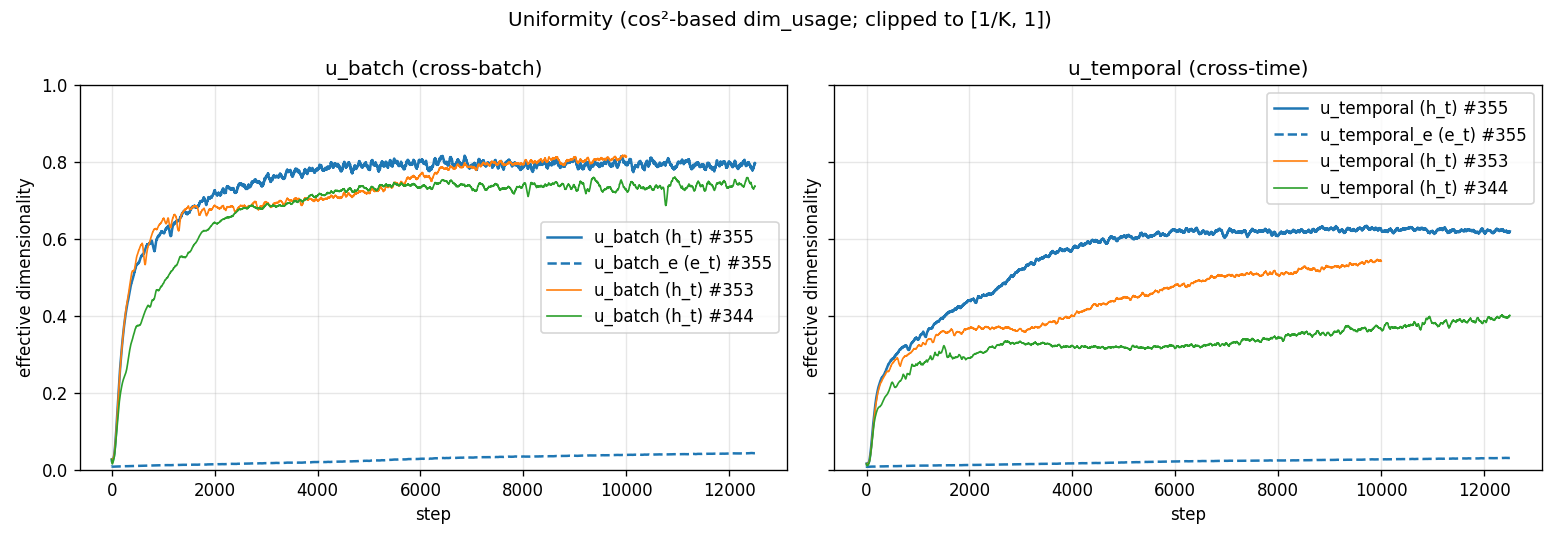
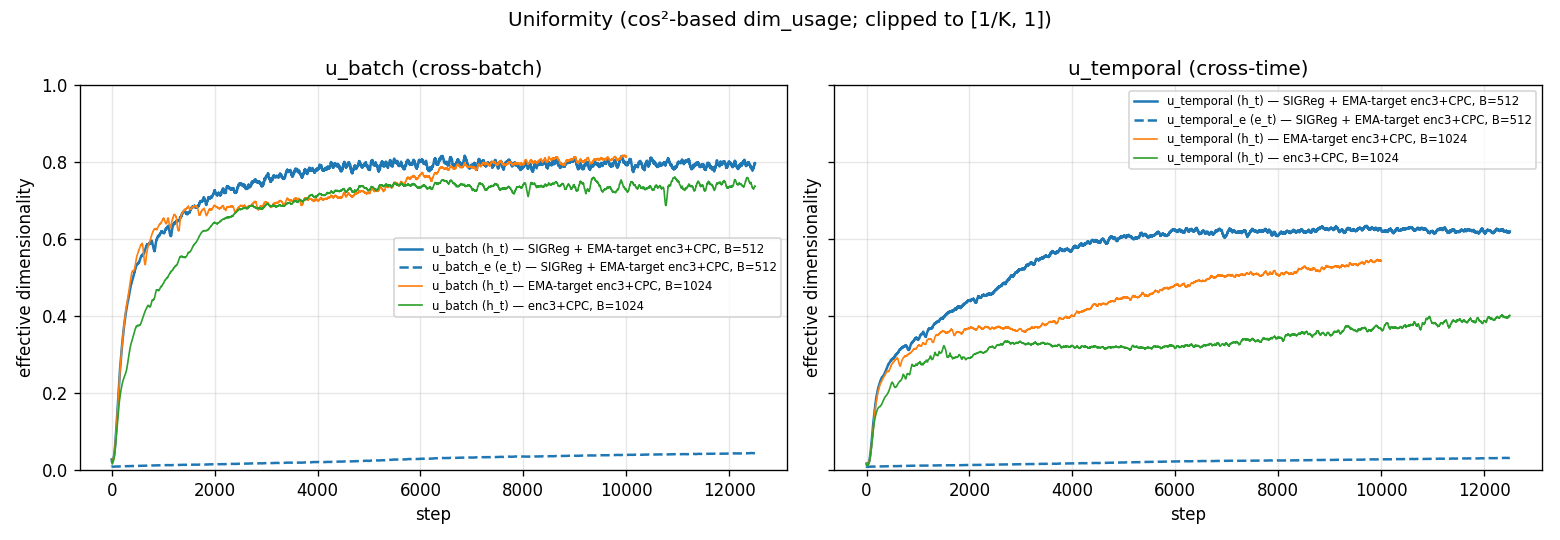
exp(#355): address #356 report review — 10 items
- Drop PR-number suffixes from plot legends (gm_rel_mase, uniformity,
  loss_curve); ARM_LABEL in build_report.py now reads e.g.
  "EMA-target enc3+CPC, B=1024" / "SIGReg + EMA-target enc3+CPC, B=512".
- Delete sigreg_terms.png orphan + drop plot_sigreg_terms() call.
- Delete results/sigreg_e_inspection.md, attribution_caveat.md,
  gm_table_aggregates_note.md (one file per experiment); unique content
  preserved in lejepa_sigreg.md (non-monotone L_SIGReg(e_t) trajectory,
  attribution / metric-scope caveats now in Result + annexes B/C).
- Result section now carries the GM-MASE / GM-MAPE_SN / GM-CRPS_SN
  scope limitation up front (not only annex) and the hard-coded
  reference-values provenance (was annex B).
- Headline rewritten descriptively: largest cross-arm delta (0.0059)
  vs intra-row spread 0.0148 quoted in the body, "within seed noise"
  language dropped.
- Dropped defensive gradient-path sentence in "What the two SIGReg
  terms did" — magnitude statement stands on its own.
- Loss-curve caption added describing the dip-then-rise shape across
  the two EMA-target arms vs the enc3+CPC reference.
- Title simplified to "LeJEPA spherical regulariser at half batch size"
  (no e_t / h_t / enc3 / CPC before Vocabulary); Vocabulary extended
  with enc3, CPC, EMA-target.
- Dropped Annex F (duplicated Sphere coverage + magnitude body tables);
  Annex E renumbered to D (per-step trajectory — unique data).

Changed region(s): [[0.7077, 0.1481, 0.9846, 0.3852], [0.2462, 0.3852, 0.5231, 0.6222]]

diff --git a/experiments/2026-06-20_lejepa_sigreg/scripts/build_report.py b/experiments/2026-06-20_lejepa_sigreg/scripts/build_report.py
@@ -23,9 +23,9 @@ EMA_GM = {
 }
 
 ARM_LABEL = {
-    "cpc_enc3":    "baseline enc3+CPC (#344)",
-    "ema_enc3":    "EMA-target enc3+CPC (#353)",
-    "sigreg_enc3": "SIGReg+EMA enc3+CPC B=512 (#355)",
+    "cpc_enc3":    "enc3+CPC, B=1024",
+    "ema_enc3":    "EMA-target enc3+CPC, B=1024",
+    "sigreg_enc3": "SIGReg + EMA-target enc3+CPC, B=512",
 }
 
 
@@ -79,58 +79,47 @@ def plot_loss_curves(sigreg_csv: Path, ema_csv: Path | None, cpc_csv: Path | Non
     fig, ax = plt.subplots(figsize=(8, 4.5))
     s = pd.read_csv(sigreg_csv)
     ax.plot(s["step"], s["loss"].rolling(50, min_periods=1).mean(),
-            label="SIGReg+EMA B=512 (#355)", color="C0", lw=1.5)
+            label=ARM_LABEL["sigreg_enc3"], color="C0", lw=1.5)
     if ema_csv and ema_csv.exists():
         e = pd.read_csv(ema_csv)
         ax.plot(e["step"], e["loss"].rolling(50, min_periods=1).mean(),
-                label="EMA-target B=1024 (#353)", color="C1", lw=1.5)
+                label=ARM_LABEL["ema_enc3"], color="C1", lw=1.5)
     if cpc_csv and cpc_csv.exists():
         c = pd.read_csv(cpc_csv)
         ax.plot(c["step"], c["loss"].rolling(50, min_periods=1).mean(),
-                label="enc3+CPC B=1024 (#344)", color="C2", lw=1.5)
+                label=ARM_LABEL["cpc_enc3"], color="C2", lw=1.5)
     ax.set_xlabel("step"); ax.set_ylabel("loss (50-step rolling mean)")
     ax.set_title("Training loss")
     ax.legend(); ax.grid(alpha=0.3)
     fig.tight_layout(); fig.savefig(out, dpi=120); plt.close(fig)
 
 
-def plot_sigreg_terms(sigreg_csv: Path, out: Path):
-    s = pd.read_csv(sigreg_csv)
-    fig, ax = plt.subplots(figsize=(8, 4.5))
-    ax.plot(s["step"], s["sigreg_e"].rolling(50, min_periods=1).mean(),
-            label=r"$L_{\rm SIGReg}(e_t)$", color="C0", lw=1.5)
-    ax.plot(s["step"], s["sigreg_h"].rolling(50, min_periods=1).mean(),
-            label=r"$L_{\rm SIGReg}(h_t)$", color="C3", lw=1.5)
-    ax.set_xlabel("step"); ax.set_ylabel("SIGReg term (50-step rolling mean)")
-    ax.set_yscale("log")
-    ax.set_title("SIGReg terms")
-    ax.legend(); ax.grid(alpha=0.3, which="both")
-    fig.tight_layout(); fig.savefig(out, dpi=120); plt.close(fig)
-
-
 def plot_uniformity(sigreg_csv: Path, ema_csv: Path | None, cpc_csv: Path | None, out: Path):
     s = pd.read_csv(sigreg_csv)
     fig, axes = plt.subplots(1, 2, figsize=(13, 4.5), sharey=True)
+    sig_lab = ARM_LABEL["sigreg_enc3"]
+    ema_lab = ARM_LABEL["ema_enc3"]
+    cpc_lab = ARM_LABEL["cpc_enc3"]
     for ax, kind in zip(axes, ("batch", "temporal")):
         ax.plot(s["step"], s[f"u_{kind}"].rolling(50, min_periods=1).mean(),
-                label=f"u_{kind} (h_t) #355", color="C0", lw=1.5)
+                label=f"u_{kind} (h_t) — {sig_lab}", color="C0", lw=1.5)
         ax.plot(s["step"], s[f"u_{kind}_e"].rolling(50, min_periods=1).mean(),
-                label=f"u_{kind}_e (e_t) #355", color="C0", lw=1.5, ls="--")
+                label=f"u_{kind}_e (e_t) — {sig_lab}", color="C0", lw=1.5, ls="--")
         if ema_csv and ema_csv.exists():
             e = pd.read_csv(ema_csv)
             if f"u_{kind}" in e.columns:
                 ax.plot(e["step"], e[f"u_{kind}"].rolling(50, min_periods=1).mean(),
-                        label=f"u_{kind} (h_t) #353", color="C1", lw=1.0)
+                        label=f"u_{kind} (h_t) — {ema_lab}", color="C1", lw=1.0)
         if cpc_csv and cpc_csv.exists():
             c = pd.read_csv(cpc_csv)
             if f"u_{kind}" in c.columns:
                 ax.plot(c["step"], c[f"u_{kind}"].rolling(50, min_periods=1).mean(),
-                        label=f"u_{kind} (h_t) #344", color="C2", lw=1.0)
+                        label=f"u_{kind} (h_t) — {cpc_lab}", color="C2", lw=1.0)
         ax.set_xlabel("step")
         ax.set_ylabel("effective dimensionality")
         ax.set_title(f"u_{kind} ({'cross-batch' if kind=='batch' else 'cross-time'})")
         ax.set_ylim(0, 1)
-        ax.legend(); ax.grid(alpha=0.3)
+        ax.legend(fontsize=7); ax.grid(alpha=0.3)
     fig.suptitle("Uniformity (cos²-based dim_usage; clipped to [1/K, 1])")
     fig.tight_layout(); fig.savefig(out, dpi=120); plt.close(fig)
 
@@ -204,7 +193,6 @@ if __name__ == "__main__":
 
     rows = write_gm_table(results, results / "gm_table.csv", args.sigreg_tag)
     plot_loss_curves(sigreg_csv, args.ema_csv, args.cpc_csv, plots / "loss_curve.png")
-    plot_sigreg_terms(sigreg_csv, plots / "sigreg_terms.png")
     plot_uniformity(sigreg_csv, args.ema_csv, args.cpc_csv, plots / "uniformity.png")
     plot_gm_bars(rows, plots / "gm_rel_mase.png")
 

diff --git a/reports/2026-06-20_lejepa_sigreg/lejepa_sigreg.md b/reports/2026-06-20_lejepa_sigreg/lejepa_sigreg.md
@@ -1,36 +1,43 @@
-# LeJEPA SIGReg on e_t + h_t at B=512 — enc3+CPC EMA-target arm
+# LeJEPA spherical regulariser at half batch size
 
 ## Question
 
-The EMA-target enc3+CPC recipe (B=1024) is bound by GPU memory at the GRU patch-embed inside the teacher path. Cutting the batch to 512 frees that budget. With the cut, does adding a spherical regulariser on the patch-embed `e_t` and on the encoder output `h_t` keep the GIFT-Eval full-97 score in the same neighbourhood as the B=1024 reference, and fill the latent sphere?
+The previous EMA-target enc3+CPC recipe at B=1024 is bound by GPU memory at the GRU patch-embed inside the teacher path. Cutting the batch to 512 frees that budget. With the cut, does adding a spherical regulariser on the patch-embed and on the encoder output keep the GIFT-Eval full-97 score in the same neighbourhood as the B=1024 reference, and fill the latent sphere?
 
 ## Vocabulary
 
 | term | definition |
 | --- | --- |
+| `enc3` | 3-layer transformer encoder (hidden size `K`=384, 6 heads — the codebase's depth used here). |
+| `CPC` | InfoNCE auxiliary head on the encoder, `--cpc-infonce-weight 1.0`. |
+| **EMA-target** | exponential-moving-average teacher on the encoder + patch-embed, `--ema-tau 0.99`. |
 | `e_t` | output of the GRU patch-embed, per (batch, time, channel) position; `K`=384. |
 | `h_t` | output of the 3-layer transformer encoder (the codebase's `original_latent`), same shape. |
 | **SIGReg** | LeJEPA-style spherical regulariser. Epps–Pulley test statistic averaged over `M`=1024 random unit-direction 1-D projections of the pooled latent, trapezoidal-integrated on `[−6/√K, 6/√K]` against `N(0, 1/K)`. Drives the pooled marginal toward `Unif(S^{K-1})`. Two terms here: `L_SIGReg(e_t)` (`--sigreg-embedding`) and `L_SIGReg(h_t)` (`--sigreg-encoding`), both pre-`F.normalize` (`--sigreg-post-normalization` OFF). Each weighted by `λ`=0.1. |
 | `u_batch` | cross-batch dimensionality usage of `h_t`, clipped to `[1/K, 1]`. `1/K` ≈ 0.00260 = one direction; 1 = uniform sphere coverage. `u_batch_e` is the same statistic on `e_t`. |
 | `u_temporal` | cross-time analogue of `u_batch`; `u_temporal_e` is the `e_t` version. |
-| **GM-Rel MASE** | GIFT-Eval full-97 aggregate: geometric mean over 97 configs of (model MASE ÷ seasonal-naive MASE). Lower = better; 1.0 = seasonal-naive parity. Only metric the wrapper used here emits (see annex). |
+| **GM-Rel MASE** | GIFT-Eval full-97 aggregate: geometric mean over 97 configs of (model MASE ÷ seasonal-naive MASE). Lower = better; 1.0 = seasonal-naive parity. |
 
 ## Result
 
-![GM-Rel MASE — head-matched](plots/gm_rel_mase.png)
+![GM-Rel MASE on the GIFT-Eval full-97 benchmark, four (head-depth, backbone-checkpoint) cells per arm](plots/gm_rel_mase.png)
 
-| head / checkpoint | enc3+CPC (B=1024) | EMA-target enc3+CPC (B=1024) | SIGReg+EMA enc3+CPC (B=512) |
+| head / checkpoint | enc3+CPC, B=1024 | EMA-target enc3+CPC, B=1024 | SIGReg + EMA-target, B=512 |
 | --- | ---: | ---: | ---: |
 | 2L / best | 1.1846 | 1.1614 | 1.1610 |
 | 2L / last | 1.1531 | 1.1817 | 1.1758 |
 | 6L / best | 1.1584 | 1.1576 | 1.1543 |
 | 6L / last | 1.1436 | 1.1597 | 1.1556 |
 
-Cross-arm SIGReg vs EMA-target deltas: 2L/best −0.0004, 2L/last −0.0059, 6L/best −0.0033, 6L/last −0.0041. The intra-arm best-vs-last spread directly observable from the SIGReg arm's own row (2L: 1.1610 → 1.1758) is **0.0148** — 2.5× to 37× larger than any cross-arm delta. **At single-seed resolution the SIGReg+B=512 arm sits within seed noise of the EMA-target B=1024 arm across all four cells.** The table does not support a directional verdict on the SIGReg arm.
+Cross-arm deltas of the SIGReg arm vs the EMA-target reference: 2L/best −0.0004, 2L/last −0.0059, 6L/best −0.0033, 6L/last −0.0041. The largest cross-arm delta (0.0059) is 2.5× smaller than the SIGReg arm's own intra-row best-vs-last spread of **0.0148** (2L: 1.1610 → 1.1758). The four-cell head-to-head does not separate the SIGReg + B=512 arm from the EMA-target B=1024 reference in either direction.
+
+**Metric scope.** This GIFT-Eval wrapper emits only GM-Rel MASE per `summary.txt`. The project's preferred aggregates are GM-MASE / GM-MAPE_SN / GM-CRPS_SN; those are not produced here — the per-config `all_results.csv` carries raw `MASE[0.5]`, `MAPE[0.5]`, and `mean_weighted_sum_quantile_loss`, but not the seasonal-naive denominators needed to form the SN-relative versions (see annex C).
+
+**Reference-values provenance.** The enc3+CPC and EMA-target columns reproduce prior arms' published head-matched tables at their own code revisions, embedded as constants `REF_GM` and `EMA_GM` in [`build_report.py`](../../experiments/2026-06-20_lejepa_sigreg/scripts/build_report.py); the SIGReg column is the only fresh head-matched eval at this code revision and HF cache snapshot.
 
 ### What the two SIGReg terms did
 
-![SIGReg term trajectories and magnitude balance](plots/sigreg_e_inspection.png)
+![SIGReg term trajectories on log scale (upper) and their ratio to total loss (lower), 50-step rolling means](plots/sigreg_e_inspection.png)
 
 Mean over the last 50 of 12 500 steps:
 
@@ -42,13 +49,13 @@ Mean over the last 50 of 12 500 steps:
 | **`λ · L_SIGReg(e_t) / loss`** | **2.36e-5** (~42 000× smaller than total) |
 | **`λ · L_SIGReg(h_t) / loss`** | **8.96e-6** (~110 000× smaller than total) |
 
-The `e_t` regulariser was effectively inert by magnitude: the gradient signal from `L_SIGReg(e_t)` sits ~42 000× below the contrastive + CPC + EMA-target sum. The gradient path itself is live — the end-to-end test `tests/test_sigreg.py::test_sigreg_on_real_patch_embed_admits_backward` passes on this revision, and `u_batch_e` advances from 0.009 (step 1) to 0.045 (step 12 500), which is incompatible with a disconnected gradient.
+The `e_t` regulariser was effectively inert by magnitude: `L_SIGReg(e_t)` sits ~42 000× below the contrastive + CPC + EMA-target sum. The `L_SIGReg(e_t)` curve is also non-monotone — it drops to ~6.4e-4 by step 2 000, then rebounds to ~1.0e-3 from step 5 000 onward where it plateaus (annex D).
 
 ### Sphere coverage
 
-![u_batch and u_temporal](plots/uniformity.png)
+![Cross-batch (left) and cross-time (right) uniformity over training; h_t solid vs e_t dashed for the SIGReg arm, h_t overlays for the two reference arms](plots/uniformity.png)
 
-`h_t` reaches `u_batch` = 0.796 and `u_temporal` = 0.619 (solid blue, this arm). `e_t` ends at `u_batch_e` = 0.044 and `u_temporal_e` = 0.032 — 17× and 12× the `1/K` floor of 0.00260, but ~18× below the `h_t` levels. The contrastive loss `cosine_similarity_batch_full_hh_negs_xshh_allt` directly rewards angular separation between `h_t` vectors, so `h_t`'s sphere coverage is not attributable to the SIGReg term alone.
+`h_t` reaches `u_batch` = 0.796 and `u_temporal` = 0.619. `e_t` ends at `u_batch_e` = 0.044 and `u_temporal_e` = 0.032 — 17× and 12× the `1/K` floor of 0.00260, but ~18× below the `h_t` levels. The contrastive loss `cosine_similarity_batch_full_hh_negs_xshh_allt` directly rewards angular separation between `h_t` vectors, so `h_t`'s sphere coverage is not attributable to the SIGReg term alone.
 
 ## Protocol
 
@@ -70,9 +77,9 @@ Each backbone checkpoint (`best` = best train-loss, `last` = step 12 500) trains
 
 ### Training loss
 
-![Training loss (50-step rolling mean)](plots/loss_curve.png)
+![Training loss, 50-step rolling mean, three arms overlaid](plots/loss_curve.png)
 
-Overlay traces come from each prior arm's published `*_losses.csv` at its own code revision (see annex A).
+The SIGReg arm and the EMA-target reference both dip to ~2.5–2.9 around step 1 000, then rise to ~4.2–4.7 by step 5 000 where the curves plateau; the enc3+CPC reference (no EMA-target) sits at ~4.2–4.5 throughout with a small rise over the same window. This report does not isolate the cause of the shape.
 
 ## Annex
 
@@ -83,21 +90,17 @@ All plots embed the SIGReg arm's training CSV `runs/bb_allt08_xftrip_nobn_enc3_e
 - EMA-target arm: `experiments/2026-06-19_ema_target_encoder/runs/bb_allt08_xftrip_nobn_enc3_emateach_qk_aon_b1024_cpc_losses.csv`
 - enc3+CPC arm: `experiments/2026-06-13_cpc_infonce_aux/runs/bb_allt08_xftrip_nobn_enc3_sgpos_qk_aon_b1024_cpc_losses.csv`
 
-Both overlay CSVs are taken from those arms' own code revisions; no fresh re-training was run for this report. `gm_rel_mase.png` legend mapping: grey = enc3+CPC (B=1024, no SIGReg, no EMA); blue = EMA-target enc3+CPC (B=1024, no SIGReg); red = this arm. The four x-axis cells decompose as `<head layers>/<backbone checkpoint>` (e.g. `2L/best` = 2-layer head on the best-train-loss backbone).
+Both overlay CSVs are taken from those arms' own code revisions; no fresh re-training was run for this report. The `gm_rel_mase.png` legend mapping: grey = enc3+CPC B=1024 (no SIGReg, no EMA-target), blue = EMA-target enc3+CPC B=1024 (no SIGReg), red = this arm. The four x-axis cells decompose as `<head layers>/<backbone checkpoint>` (e.g. `2L/best` = 2-layer head on the best-train-loss backbone).
 
-### B. Hard-coded reference values
-
-The enc3+CPC and EMA-target GM-Rel MASE values in the table and bar plot are reproduced from prior PRs and embedded as constants `REF_GM` and `EMA_GM` in [`experiments/2026-06-20_lejepa_sigreg/scripts/build_report.py`](../../experiments/2026-06-20_lejepa_sigreg/scripts/build_report.py). Provenance: enc3+CPC from PR #344, EMA-target from PR #354's head-matched table. No fresh re-evaluation of either reference at this code revision or HF cache snapshot.
-
-### C. Attribution — three axes move together
+### B. Attribution — three axes move together
 
 The arm changes three things vs the EMA-target B=1024 reference: SIGReg on `e_t`, SIGReg on `h_t`, batch 1024 → 512. The four-cell GM-Rel MASE table measures the joint perturbation. A per-axis decomposition would need at minimum a no-SIGReg B=512 arm (isolates batch) and a SIGReg B=1024 arm (isolates SIGReg, would itself need an OOM remediation beyond the chunking workaround used here). The issue spec asks for the single B=512 arm; those controls are out of scope and were not run.
 
-### D. GIFT-Eval wrapper emits only GM-Rel MASE
+### C. GIFT-Eval wrapper emits only GM-Rel MASE
 
 `scripts/run_gift_eval_full.sh` writes `Aggregate GM-Relative MASE (97 configs)` to each `summary.txt`. The per-config `all_results.csv` carries raw `MASE[0.5]`, `MAPE[0.5]`, and `mean_weighted_sum_quantile_loss`, but not the seasonal-naive denominators needed to form GM-MASE / GM-MAPE_SN / GM-CRPS_SN. Computing those would require re-running the wrapper with an additional emit flag — out of scope here.
 
-### E. Trajectory of SIGReg terms and `e_t` dimensionality
+### D. Trajectory of SIGReg terms and `e_t` dimensionality
 
 50-step rolling means:
 
@@ -112,17 +115,4 @@ The arm changes three things vs the EMA-target B=1024 reference: SIGReg on `e_t`
 | 10 000 | 9.70e-4 | 4.12e-4 | 0.0395 | 0.7923 | 4.43 |
 | 12 500 | 1.01e-3 | 3.81e-4 | 0.0438 | 0.8020 | 4.24 |
 
-### F. Final trajectory, mean over last 50 of 12 500 steps
-
-| quantity | unit | value |
-| --- | --- | ---: |
-| `u_batch` (h_t cross-batch) | `[1/K, 1]` | 0.7964 |
-| `u_batch_e` (e_t cross-batch) | `[1/K, 1]` | 0.0438 |
-| `u_temporal` (h_t cross-time) | `[1/K, 1]` | 0.6194 |
-| `u_temporal_e` (e_t cross-time) | `[1/K, 1]` | 0.0315 |
-| `L_SIGReg(e_t)` | dimensionless | 1.001e-3 |
-| `L_SIGReg(h_t)` | dimensionless | 3.805e-4 |
-| training `loss` | dimensionless | 4.2478 |
-| `final_step` | — | 12 500 |
-
-`1/K` = 1/384 ≈ 0.00260.
+`1/K` = 1/384 ≈ 0.00260. Final-step `u_temporal` = 0.6194, `u_temporal_e` = 0.0315.
